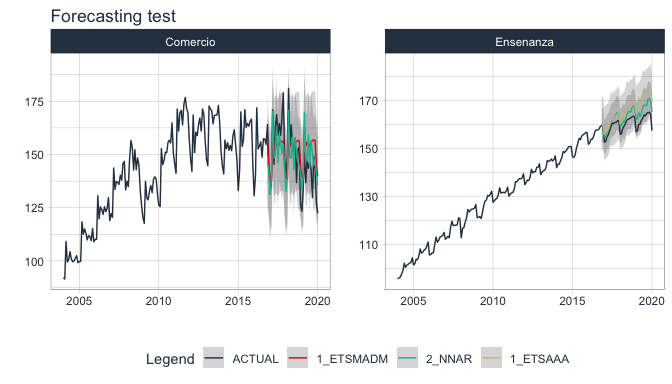
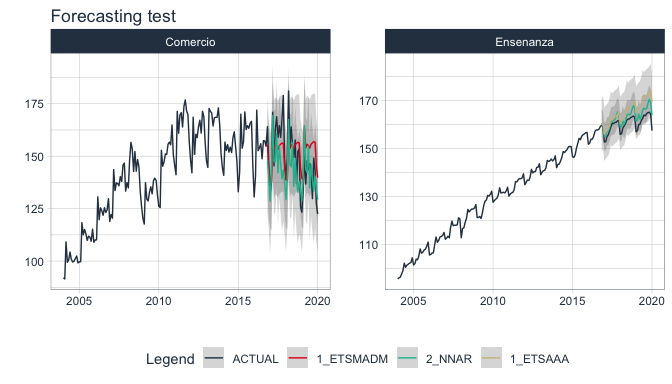
update inicio

diff --git a/_pkgdown/index.md b/_pkgdown/index.md
@@ -3,22 +3,24 @@
 
 <!-- badges: start -->
 
-[![made-with-R](https://img.shields.io/badge/Made%20with-R-1f425f.svg)](https://www.r-project.org/)
-[![GitHub
-license](https://img.shields.io/github/license/Naereen/StrapDown.js.svg)](https://github.com/rafzamb/sknifedatar/blob/master/LICENSE)
+[![CRAN
+status](https://www.r-pkg.org/badges/version/sknifedatar)](https://CRAN.R-project.org/package=sknifedatar)
+[![Total
+Downloads](http://cranlogs.r-pkg.org/badges/grand-total/sknifedatar?color=brightgreen)](https://cran.r-project.org/package=sknifedatar)
+![](http://cranlogs.r-pkg.org/badges/sknifedatar?color=brightgreen)
 <!-- badges: end -->
 
-Serves primarily as an extension to the
-[modeltime](https://business-science.github.io/modeltime/) 📦 ecosystem.
-In addition, it includes some functionalities for spatial data and
-visualization.
+> Serves primarily as an extension to the
+> [modeltime](https://business-science.github.io/modeltime/) 📦
+> ecosystem. In addition to some functionalities of spatial data and
+> visualization.
 
 ## Installation
 
-Not on CRAN yet.
+CRAN version:
 
 ``` r
-#install.packages("sknifedatar")
+install.packages("sknifedatar")
 ```
 
 Or install the development version from GitHub with:
@@ -27,6 +29,18 @@ Or install the development version from GitHub with:
 # install.packages("devtools")
 devtools::install_github("rafzamb/sknifedatar")
 ```
+
+## Features:
+
+-   multifit: multiple models into multiple time series (no panel).
+-   workflowsets: [worklowset over a time
+    series](https:/rafzamb.github.io/sknifedatar/articles/workflowsets_times.html).
+-   workflowset multifit: [worklowset over multiple time series (no
+    panel)](https:/rafzamb.github.io/sknifedatar/articles/workflowsets_multi_times.html).
+-   automagic tabs: [automatic generation of Tabs in Distill/Rmarkdown
+    files](https://rafzamb.github.io/sknifedatar/articles/automatic_tabs.html).
+-   sliding windows: [data partitioning in sliding
+    windows](https://rafzamb.github.io/sknifedatar/articles/sliding_windows.html).
 
 ### Multiple models on multiple series functions 📈
 
@@ -113,9 +127,9 @@ model_table_emae = modeltime_multifit(serie = nested_serie %>% head(2),
 #>   name_serie .model_id .model_desc     .type   mae  mape  mase smape  rmse   rsq
 #>   <chr>          <int> <chr>           <chr> <dbl> <dbl> <dbl> <dbl> <dbl> <dbl>
 #> 1 Comercio           1 ETS(M,AD,M)     Test   9.69  6.66 0.745  6.50 11.7  0.407
-#> 2 Comercio           2 NNAR(1,1,10)[1… Test   9.09  6.16 0.699  6.12 11.1  0.429
+#> 2 Comercio           2 NNAR(1,1,10)[1… Test  10.3   6.73 0.793  6.97 12.5  0.433
 #> 3 Ensenanza          1 ETS(A,A,A)      Test   4.99  3.11 3.62   3.05  5.63 0.732
-#> 4 Ensenanza          2 NNAR(1,1,10)[1… Test   3.24  2.02 2.35   1.99  3.60 0.857
+#> 4 Ensenanza          2 NNAR(1,1,10)[1… Test   2.67  1.67 1.94   1.65  3.00 0.868
 ```
 
 ### 🔺 modeltime\_multiforecast
